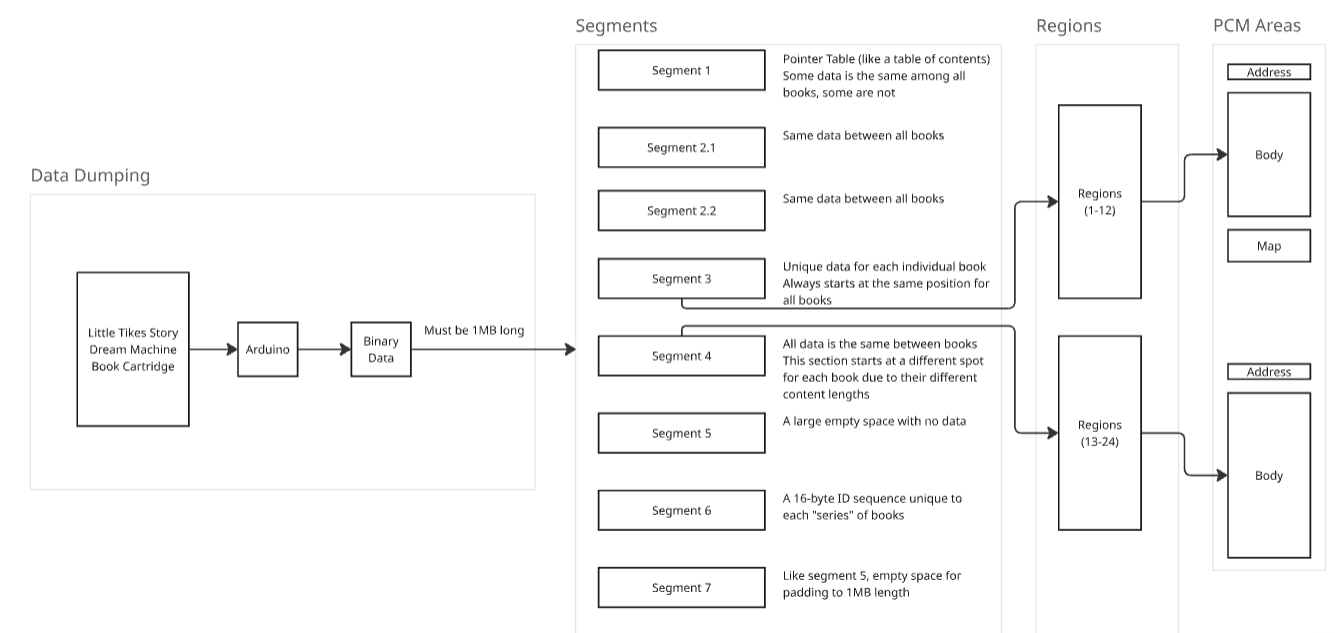
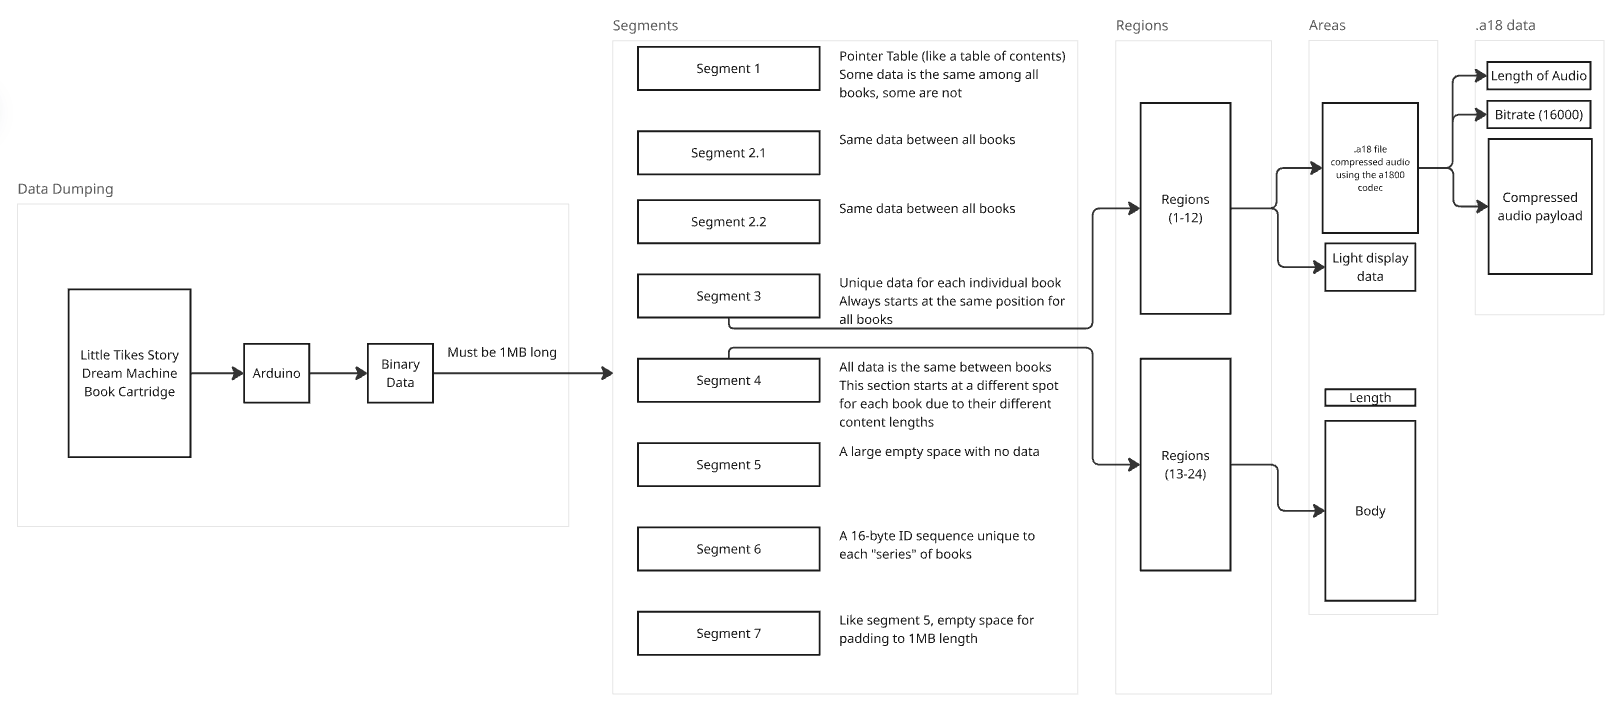
explain

diff --git a/LTSDM-RePulse/purebin.py b/LTSDM-RePulse/purebin.py
@@ -443,11 +443,12 @@ class Repulse:
 #######################################
 #   RUNTIME
 #######################################
-hex_data1 = DataLoader().loadBinarytoMatrix(REFERENCE_PATH_1)
-hex_data2 = DataLoader().loadBinarytoMatrix(REFERENCE_PATH_2)
-reference1 = HexFile(hex_data1)
-reference2 = HexFile(hex_data2)
+if __name__ == "__main__":
+    hex_data1 = DataLoader().loadBinarytoMatrix(REFERENCE_PATH_1)
+    hex_data2 = DataLoader().loadBinarytoMatrix(REFERENCE_PATH_2)
+    reference1 = HexFile(hex_data1)
+    reference2 = HexFile(hex_data2)
 
-# TESTS
-repulse = Repulse()
-repulse.printPorts()
+    # TESTS
+    repulse = Repulse()
+    repulse.printPorts()

diff --git a/LTSDM-RePulse/encoder-decoder.py b/LTSDM-RePulse/encoder-decoder.py
@@ -1,0 +1,23 @@
+# Decoding Encoding
+#########################
+#  CONSTANTS/VARS
+#########################
+
+#########################
+#  CLASSES/FUNC
+#########################
+class EncoderDecoder:
+    def __init__(self):
+        pass
+
+    def encode(self, data:bytes) -> bytes:
+        pass
+
+    def decode(self, data:bytes) -> bytes:
+        pass
+
+#########################
+#  RUNTIME
+##########################
+if __name__ == "__main__":
+    pass

diff --git a/LTSDM-RePulse/main.py b/LTSDM-RePulse/main.py
@@ -1,6 +1,6 @@
 import tkinter as tk
 from tkinter import ttk
-import gui
+import a1800_codec
 
 #######################################
 #   CONSTANTS/VARS
